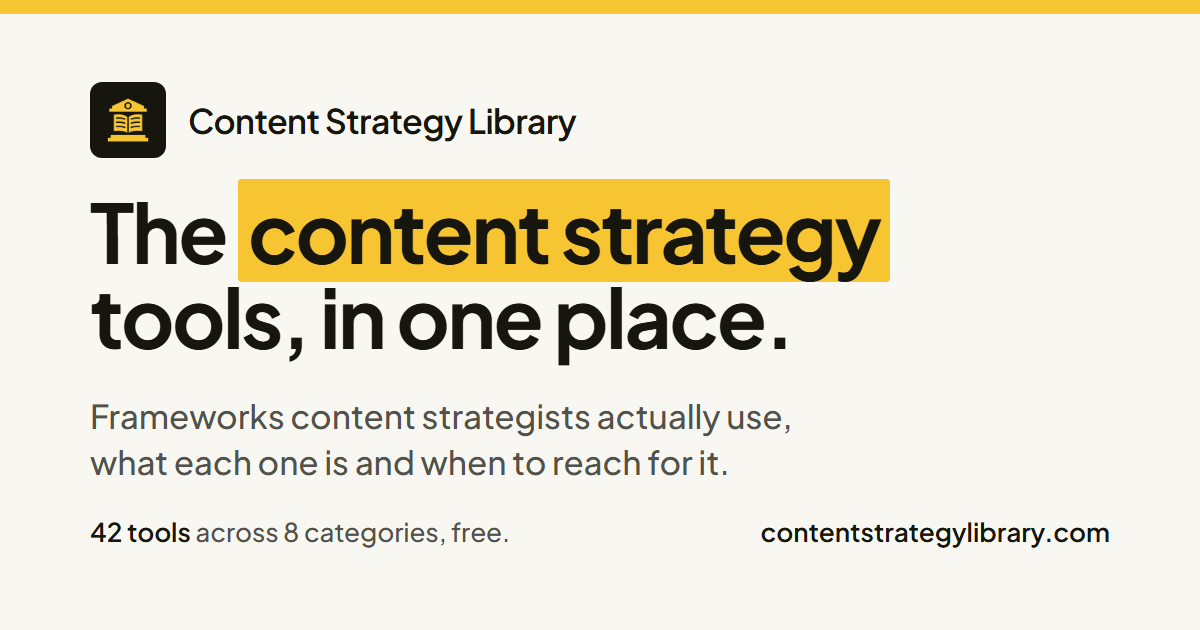
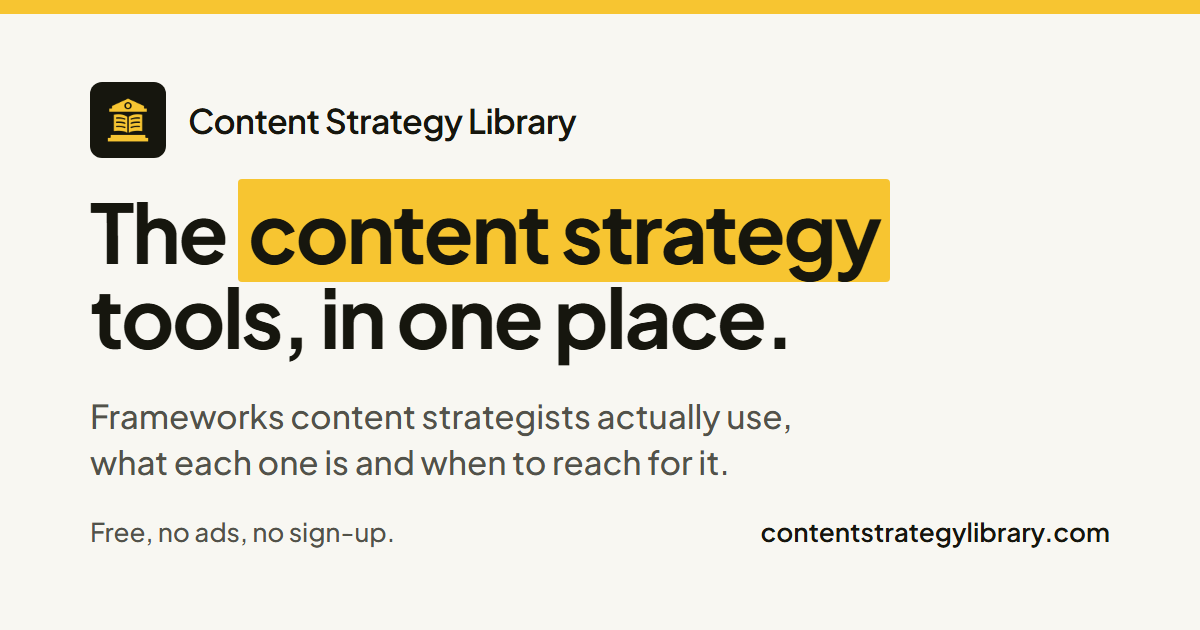
OG card: replace tool-count line with evergreen tagline

Changed region(s): [[0.0617, 0.8143, 0.4317, 0.8746]]

diff --git a/images/og-card.html b/images/og-card.html
@@ -70,7 +70,7 @@
     </div>
 
     <div class="foot">
-      <span><span class="count">42 tools</span> across 8 categories, free.</span>
+      <span>Free, no ads, no sign-up.</span>
       <span class="domain">contentstrategylibrary.com</span>
     </div>
   </div>
